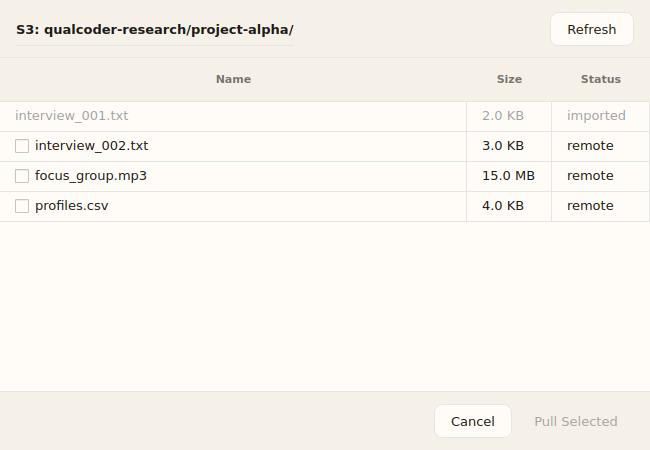
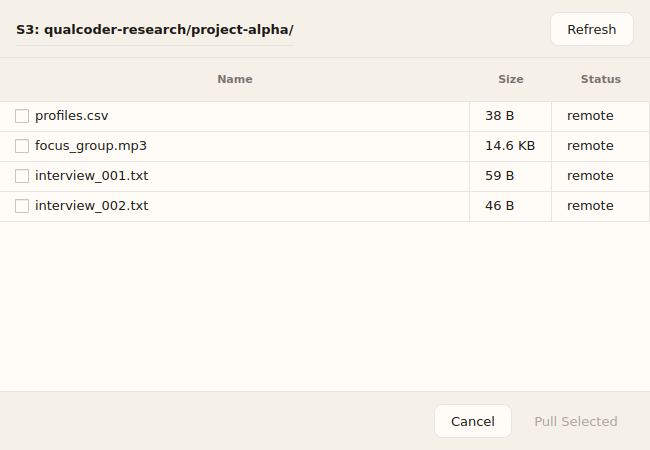
fix(storage): use moto S3 instead of mock.patch in screenshot tests
Replace mock.patch on scan/get_imported_filenames with a real moto S3
backend. The Import from S3 dialog now exercises the full data path:
  wired_app → DataStoreViewModel.scan() → scan_store command handler
  → S3Scanner.list_files() → moto S3 → RemoteFile entities → dialog table

The S3Scanner's client is swapped to the moto-backed client on the
ViewModel's existing scanner instance, keeping the real code path intact.

https://claude.ai/code/session_0193SyPtHKvCak3R3DNzJus6

diff --git a/src/tests/e2e/test_storage_e2e.py b/src/tests/e2e/test_storage_e2e.py
@@ -9,13 +9,10 @@ Uses moto for S3 mock and a mock DVC gateway — no real AWS or DVC CLI.
 
 from __future__ import annotations
 
-from datetime import datetime, timezone
-
 import allure
 import pytest
 from PySide6.QtWidgets import QApplication
 
-from src.contexts.storage.core.entities import RemoteFile
 from src.contexts.storage.infra.dvc_gateway import DvcResult
 from src.tests.e2e.helpers import attach_screenshot
 from src.tests.e2e.utils import DocScreenshot
@@ -716,67 +713,79 @@ class _NullStorageToolsContext:
 
 
 # =============================================================================
-# Screenshot E2E Tests — Full Wiring Verification
+# Screenshot E2E Tests — Full Wiring with Moto S3
 # =============================================================================
 
 
-def _sample_remote_files() -> list[RemoteFile]:
-    """Create realistic remote files for screenshot capture."""
-    now = datetime.now(tz=timezone.utc)
-    return [
-        RemoteFile(
-            key="project-alpha/raw/interview_001.txt",
-            size_bytes=2048,
-            last_modified=now,
-        ),
-        RemoteFile(
-            key="project-alpha/raw/interview_002.txt",
-            size_bytes=3072,
-            last_modified=now,
-        ),
-        RemoteFile(
-            key="project-alpha/raw/focus_group.mp3",
-            size_bytes=15_728_640,
-            last_modified=now,
-        ),
-        RemoteFile(
-            key="project-alpha/processed/profiles.csv",
-            size_bytes=4096,
-            last_modified=now,
-        ),
-    ]
+@pytest.fixture
+def screenshot_s3():
+    """Create mock S3 with realistic research files for screenshot capture."""
+    import boto3
+    from moto import mock_aws
+
+    with mock_aws():
+        s3 = boto3.client("s3", region_name="us-east-1")
+        s3.create_bucket(Bucket="qualcoder-research")
+
+        # Seed realistic research files
+        s3.put_object(
+            Bucket="qualcoder-research",
+            Key="project-alpha/raw/interview_001.txt",
+            Body=b"Researcher: Tell me about your experience.\nParticipant: ...",
+        )
+        s3.put_object(
+            Bucket="qualcoder-research",
+            Key="project-alpha/raw/interview_002.txt",
+            Body=b"Researcher: How did you feel?\nParticipant: ...",
+        )
+        s3.put_object(
+            Bucket="qualcoder-research",
+            Key="project-alpha/raw/focus_group.mp3",
+            Body=b"\x00" * 15_000,  # simulated audio
+        )
+        s3.put_object(
+            Bucket="qualcoder-research",
+            Key="project-alpha/processed/profiles.csv",
+            Body=b"participant_id,sessions\nu001,12\nu002,3",
+        )
+
+        yield s3
 
 
 @allure.story("QC-047.08 Import from S3 Dialog")
 class TestImportFromS3DialogScreenshot:
-    """Open Import from S3 dialog through the real wired app flow."""
+    """Open Import from S3 dialog through the real wired app flow with moto S3."""
 
     @allure.title("DOC: Import from S3 triggered from FileManager toolbar")
-    def test_import_from_s3_via_toolbar(self, wired_app):
-        """Click 'Import > From S3 Data Store...' in the real FileManager toolbar.
+    def test_import_from_s3_via_toolbar(self, wired_app, screenshot_s3):
+        """Full wired flow: configure store → swap scanner to moto S3
+        → click Import from S3 → dialog scans real (mocked) S3 bucket
+        → renders file table with status indicators.
 
-        Verifies the full wiring:
-        FileManagerScreen._data_store_vm is set → toolbar menu is enabled
-        → click opens ImportFromS3Dialog with real ViewModel.
+        Verifies:
+        - DataStoreViewModel is wired to FileManager
+        - S3Scanner.list_files goes through real code path with moto
+        - ImportFromS3Dialog renders files correctly
         """
         from unittest.mock import patch
 
         from src.contexts.storage.core.entities import DataStore, StoreId
+        from src.contexts.storage.infra.s3_scanner import S3Scanner
         from src.contexts.storage.presentation.dialogs.import_from_s3_dialog import (
             ImportFromS3Dialog,
         )
 
         app = wired_app["app"]
         file_manager = wired_app["screens"]["files"]
+        storage_ctx = wired_app["ctx"].storage_context
 
         with allure.step("Verify DataStoreViewModel is wired to FileManager"):
             assert file_manager._data_store_vm is not None, (
                 "DataStoreViewModel not wired — check main.py _wire_viewmodels()"
             )
 
-        with allure.step("Configure store so toolbar enables S3 import"):
+        with allure.step("Configure store and swap S3 client to moto"):
             # Configure a store via the real store_repo
-            store_repo = wired_app["ctx"].storage_context.store_repo
             store = DataStore(
                 id=StoreId.new(),
                 bucket_name="qualcoder-research",
@@ -784,48 +793,52 @@ class TestImportFromS3DialogScreenshot:
                 prefix="project-alpha/",
                 dvc_remote_name="origin",
             )
-            store_repo.save(store)
+            storage_ctx.store_repo.save(store)
+
+            # Swap the _client on the existing S3Scanner that the ViewModel holds
+            # This keeps the real S3Scanner.list_files code path intact
+            file_manager._data_store_vm._s3_scanner = S3Scanner(
+                client=screenshot_s3
+            )
 
             # Re-enable the menu item now that store is configured
             file_manager._page.set_import_from_s3_enabled(True)
             QApplication.processEvents()
 
-        with allure.step("Click Import from S3 and capture dialog"):
-            # Patch scan to return sample files instead of hitting real S3
-            sample_files = _sample_remote_files()
-            with patch.object(
-                file_manager._data_store_vm, "scan", return_value=sample_files
-            ), patch.object(
-                file_manager._data_store_vm,
-                "get_imported_filenames",
-                return_value={"interview_001.txt"},
-            ):
-                # Intercept exec() so the dialog doesn't block
-                dialogs_captured = []
-                original_exec = ImportFromS3Dialog.exec
+        with allure.step("Click Import from S3 — dialog scans moto S3"):
+            # Intercept exec() so the dialog doesn't block
+            dialogs_captured = []
 
-                def capture_exec(dialog_self):
-                    dialog_self.resize(650, 400)
-                    dialog_self.show()
-                    QApplication.processEvents()
-                    dialogs_captured.append(dialog_self)
-                    # Don't call original exec — non-blocking for test
+            def capture_exec(dialog_self):
+                dialog_self.resize(650, 400)
+                dialog_self.show()
+                QApplication.processEvents()
+                dialogs_captured.append(dialog_self)
 
-                with patch.object(ImportFromS3Dialog, "exec", capture_exec):
-                    # Trigger the real signal flow: toolbar → page → screen
-                    file_manager._on_import_from_s3_clicked()
-                    QApplication.processEvents()
+            with patch.object(ImportFromS3Dialog, "exec", capture_exec):
+                file_manager._on_import_from_s3_clicked()
+                QApplication.processEvents()
 
-                assert len(dialogs_captured) == 1, (
-                    "ImportFromS3Dialog was not opened — wiring broken"
-                )
+            assert len(dialogs_captured) == 1, (
+                "ImportFromS3Dialog was not opened — wiring broken"
+            )
 
-                dialog = dialogs_captured[0]
-                attach_screenshot(dialog, "ImportFromS3Dialog - via Toolbar")
-                DocScreenshot.capture(
-                    dialog, "import-from-s3-dialog", max_width=800
-                )
-                dialog.close()
+        with allure.step("Verify dialog shows files from moto S3"):
+            dialog = dialogs_captured[0]
+            row_count = dialog._table.rowCount()
+            assert row_count == 4, f"Expected 4 S3 files, got {row_count}"
+
+            # Verify status column shows "remote" for unchecked files
+            status_item = dialog._table.item(1, 2)
+            assert status_item is not None
+            assert status_item.text() in ("remote", "imported")
+
+        with allure.step("Capture screenshot for documentation"):
+            attach_screenshot(dialog, "ImportFromS3Dialog - via Toolbar")
+            DocScreenshot.capture(
+                dialog, "import-from-s3-dialog", max_width=800
+            )
+            dialog.close()
 
 
 @allure.story("QC-047.07 Settings Data Store Configuration")
@@ -840,10 +853,6 @@ class TestSettingsDataStoreScreenshot:
         _on_settings_clicked → DialogService.show_settings_dialog(data_store_vm=...)
         → SettingsDialog has Data Store section wired.
         """
-        from unittest.mock import patch
-
-        from src.contexts.settings.presentation.dialogs import SettingsDialog
-
         app = wired_app["app"]
 
         with allure.step("Open Settings dialog through real app flow"):
@@ -869,7 +878,6 @@ class TestSettingsDataStoreScreenshot:
             dialog._sidebar.setCurrentRow(5)
             QApplication.processEvents()
 
-            # Verify we're on the Data Store section
             assert dialog._content_stack.currentIndex() == 5
 
         with allure.step("Verify Data Store fields are wired"):
